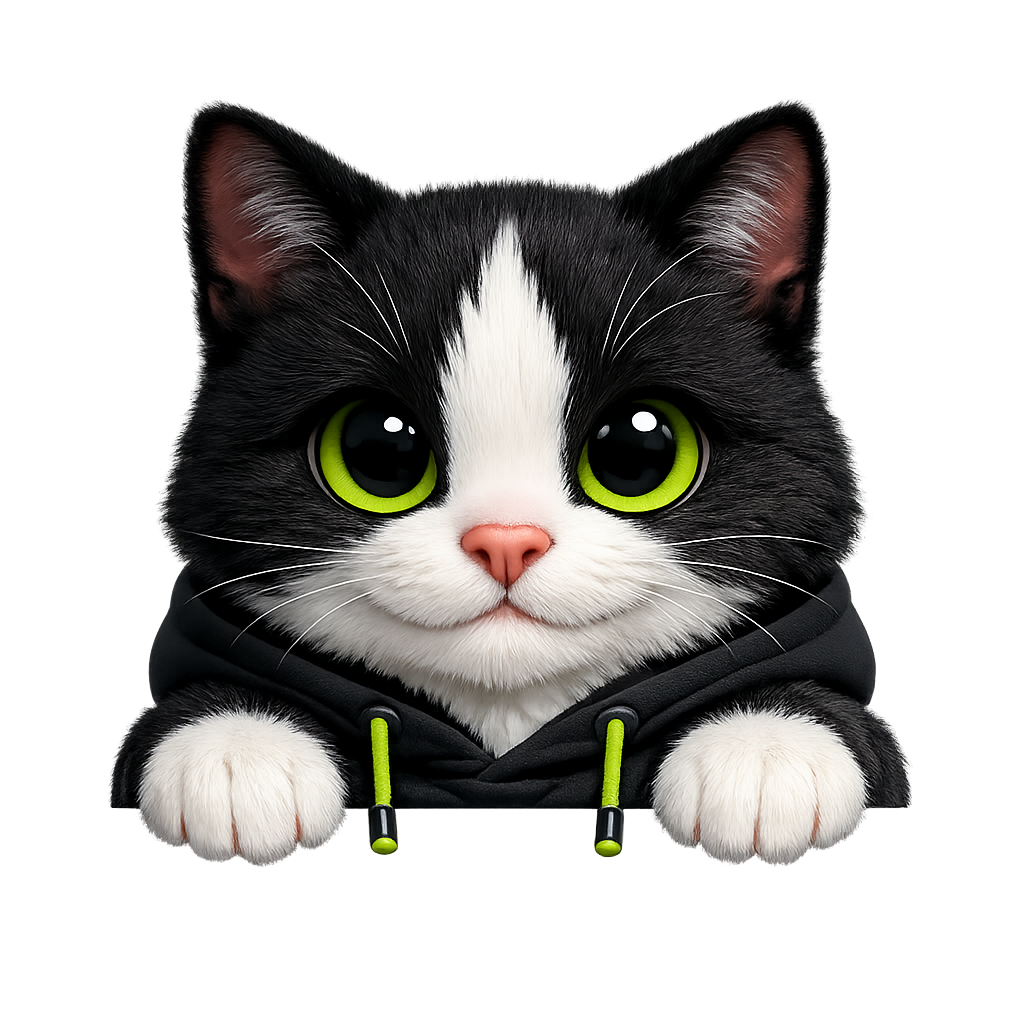
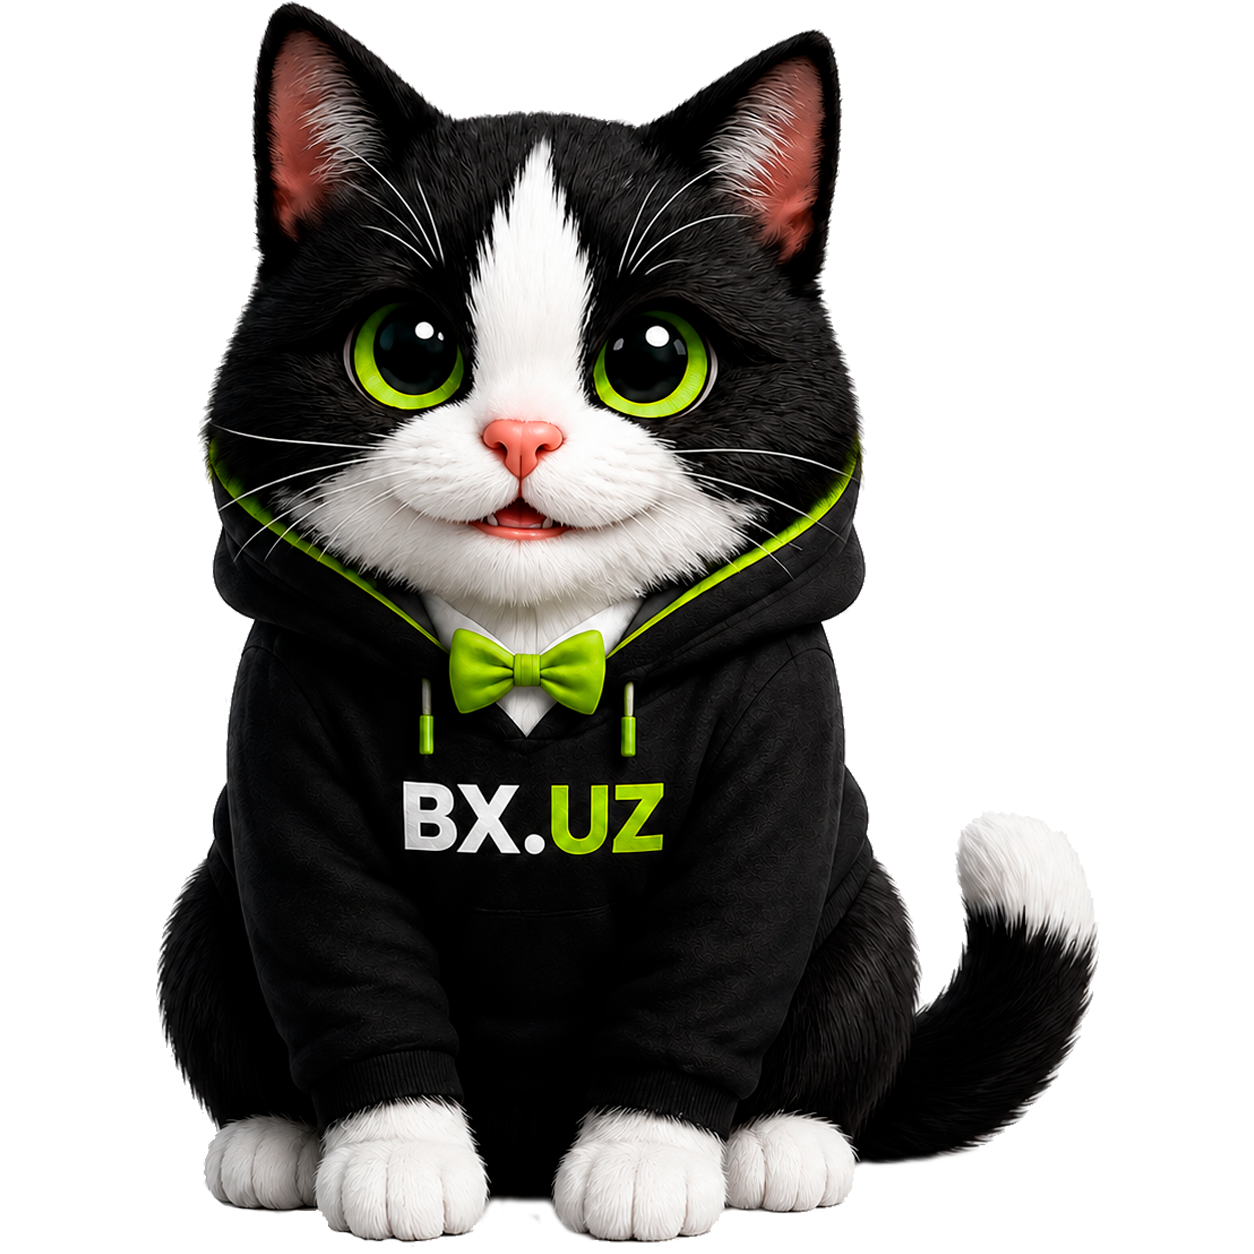
feat: replace Bix main static mascot

diff --git a/src/renderer/pages/BixWidget.tsx b/src/renderer/pages/BixWidget.tsx
@@ -961,7 +961,7 @@ export default function BixWidget() {
     <button className="bix-character" onClick={toggleMenu} onMouseEnter={showPinControls} onMouseLeave={schedulePinControlsHide} aria-label="Открыть действия Бикса">
       <span className="bix-drag" title="Перетащите Бикса за голову" />
       <img className="bix-mascot bix-frame bix-current-frame" src={currentBixFrame} alt={`Бикс: ${bixMode}`} draggable={false} />
-      {selectedHatSource && <img className="bix-hat" src={selectedHatSource} alt="Надетая шляпа Бикса" draggable={false} />}
+      {selectedHatSource && <img className={`bix-hat bix-hat-${selectedHat}${selectedOutfit ? '' : ' bix-hat-main'}`} src={selectedHatSource} alt="Надетая шляпа Бикса" draggable={false} />}
     </button>
     <div className={`bix-pin-controls${pinControlsVisible ? ' is-visible' : ''}`} onMouseEnter={showPinControls} onMouseLeave={schedulePinControlsHide} aria-label="Управление виджетом"><button onClick={() => void dockToTaskbar()} title="Прикрепить к панели задач">⌖</button><button onClick={() => void togglePinned()} title={pinned ? 'Открепить виджет' : 'Закрепить виджет'}>{pinned ? '📌' : '📍'}</button><button className="bix-move-control" title="Потяните, чтобы переместить Бикса" aria-label="Переместить Бикса">⠿</button></div>
   </main>

diff --git a/src/renderer/styles/bix-widget.css b/src/renderer/styles/bix-widget.css
@@ -17,6 +17,8 @@ html.bix-widget-window,body.bix-widget-window,#root.bix-widget-window,html:has(.
 .bix-field{display:grid;gap:5px;margin-top:9px;color:#bdbdbd;font-size:10px;font-weight:800}.bix-field select,.bix-site-cache input{box-sizing:border-box;width:100%;border:1px solid #3c3c3c;border-radius:10px;background:#242424;color:#fff;padding:8px;font-size:10px}.bix-field textarea{min-height:66px}.bix-site-cache{display:grid;gap:7px;margin:10px 0;border:1px solid #343434;border-radius:13px;background:#202020;padding:10px}.bix-site-cache>b{font-size:10px;color:#e5e5e5}.bix-rates{display:grid;gap:7px}.bix-rates>p{color:#aaa;font-size:11px}.bix-rates article{display:grid;grid-template-columns:24px 1fr auto 54px;align-items:center;gap:8px;border:1px solid #343434;border-radius:12px;background:#222;padding:9px}.bix-rates article>span{font-size:17px}.bix-rates article>div{display:grid;gap:2px}.bix-rates article b{font-size:11px}.bix-rates article small{color:#8e8e8e;font-size:8px;letter-spacing:0}.bix-rates article strong{font-size:12px}.bix-rates article em{text-align:right;font-style:normal;font-size:9px}.bix-rates article em.up{color:#7ee3a2}.bix-rates article em.down{color:#ff9898}.bix-inline-actions button.accent{border-color:#b7f500;background:#b7f500;color:#111}.bix-inline-actions button:disabled{opacity:.5;cursor:not-allowed}
 .bix-state-success .bix-frame{filter:drop-shadow(0 0 9px rgba(183,245,0,.7))}.bix-state-error .bix-frame{filter:saturate(.76)}.bix-state-sleepy .bix-frame{filter:brightness(.78) saturate(.8)}.bix-reduced-motion .bix-action,.bix-reduced-motion .bix-home-button{animation:none!important;transition:none!important}
 .bix-hat{position:absolute;z-index:4;left:20px;top:-40px;width:138px;height:150px;object-fit:contain;pointer-events:none;filter:drop-shadow(0 5px 5px rgba(0,0,0,.32));transform:rotate(-1deg);transform-origin:center bottom}
+.bix-hat-main{left:9px;top:-68px;width:112px;height:122px}
+.bix-hat-main.bix-hat-hat_lime_cap{top:-50px}
 .bix-current-frame{z-index:2}
 @media (prefers-reduced-motion:reduce){.bix-eye b,.bix-action,.bix-home-button{transition:none}}
 .bix-care{grid-template-columns:repeat(2,1fr)}